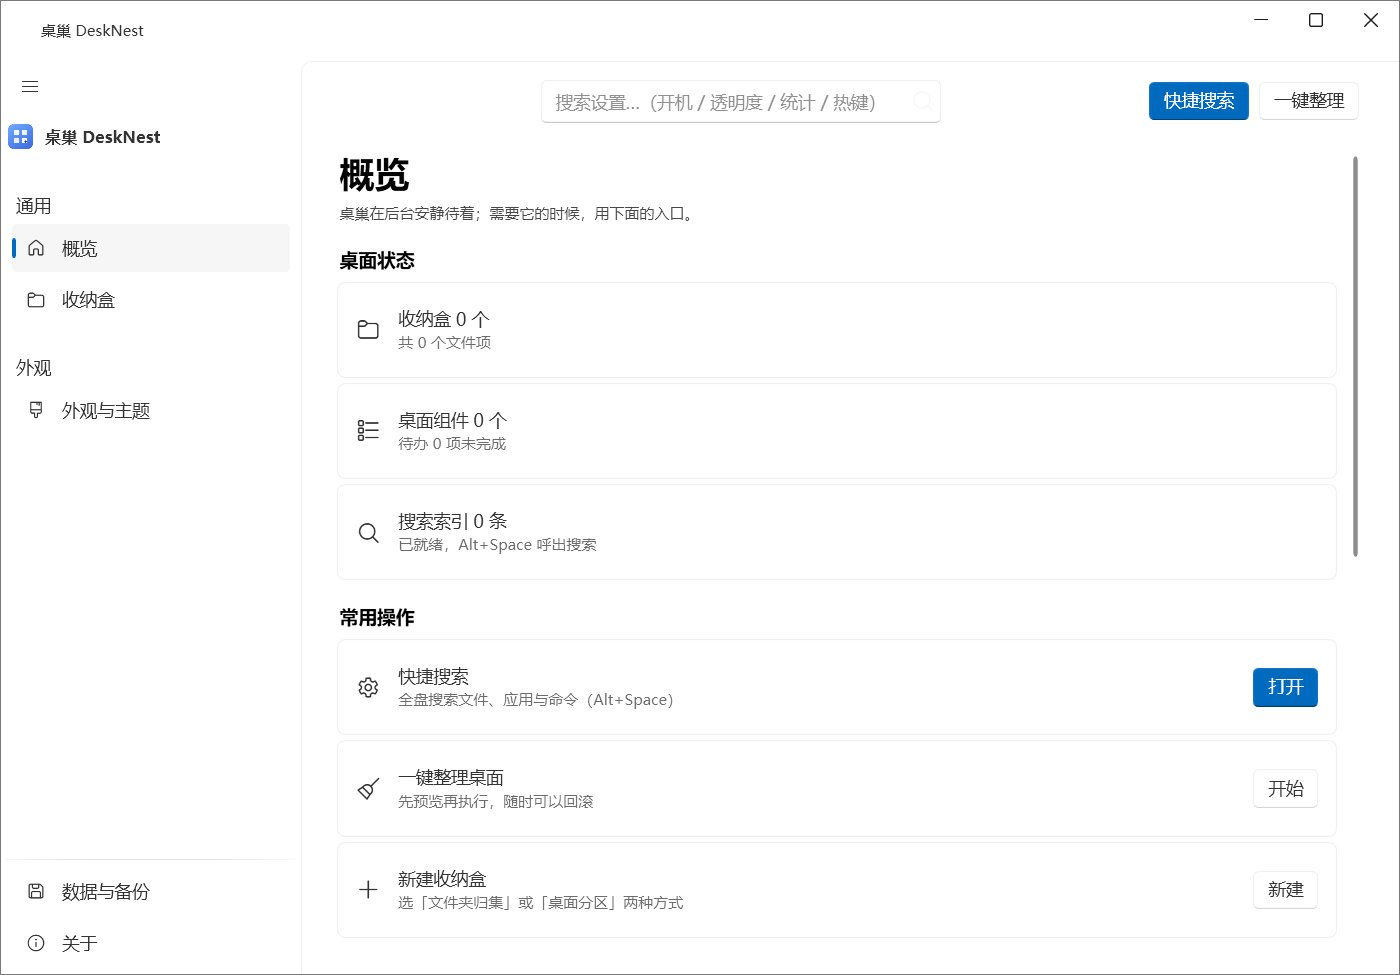
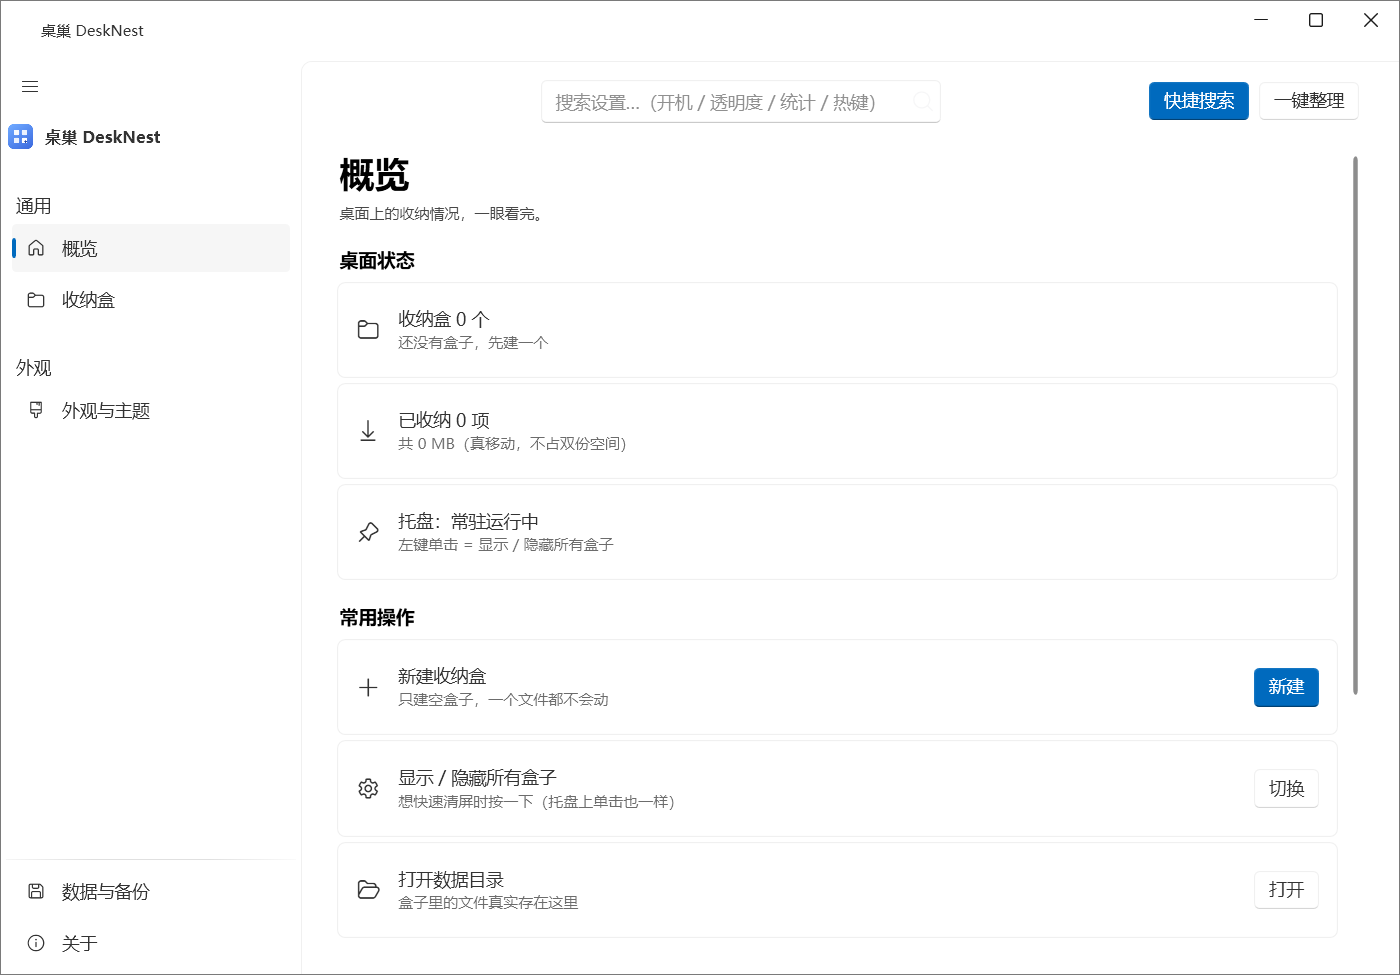
feat(v2.0/T6): 概览页重写——去掉桌面组件/搜索索引/一键整理等死入口，改成盒子数、已收纳项、托盘状态 + 三个真实操作

diff --git a/src/DeskNest.App/Pages/PagesCore.cs b/src/DeskNest.App/Pages/PagesCore.cs
@@ -15,53 +15,29 @@ public static class OverviewPage
     {
         var col = UiKit.Col();
         var boxes = AppServices.Repo.Boxes();
-        var widgets = AppServices.Repo.Widgets();
-        var todos = AppServices.Repo.Todos();
+        var items = AppServices.Repo.AllItems();
+        var totalMb = items.Sum(i => i.SizeBytes) / 1048576.0;
 
-        col.Children.Add(UiKit.PageHeader("概览", "桌巢在后台安静待着；需要它的时候，用下面的入口。"));
+        col.Children.Add(UiKit.PageHeader("概览", "桌面上的收纳情况，一眼看完。"));
 
         col.Children.Add(UiKit.Section("桌面状态",
-            UiKit.Row("🗂", $"收纳盒 {boxes.Count} 个", $"共 {AppServices.Repo.AllItems().Count} 个文件项", null,
+            UiKit.Row("🗂", $"收纳盒 {boxes.Count} 个", boxes.Count == 0 ? "还没有盒子，先建一个" : "点击进入「收纳盒」", null,
                 () => host.NavigateTo("boxes")),
-            UiKit.Row("🧩", $"桌面组件 {widgets.Count} 个", $"待办 {todos.Count(t => !t.IsDone)} 项未完成", null,
-                () => host.NavigateTo("widgets")),
-            UiKit.Row("🔍", $"搜索索引 {AppServices.Search.IndexedCount:N0} 条",
-                AppServices.Search.IsIndexing ? "正在后台建立索引…（可以正常使用）" : "已就绪，Alt+Space 呼出搜索", null,
-                () => (Application.Current as App)?.ShowSearch())));
+            UiKit.Row("📦", $"已收纳 {items.Count} 项", $"共 {totalMb:0.#} MB（真移动，不占双份空间）", null,
+                () => OpenDataRoot()),
+            UiKit.Row("📌", "托盘：常驻运行中", "左键单击 = 显示 / 隐藏所有盒子", null)));
 
         col.Children.Add(UiKit.Section("常用操作",
-            UiKit.ActionRow("⚡", "快捷搜索", "全盘搜索文件、应用与命令（Alt+Space）", "打开", () => (Application.Current as App)?.ShowSearch(), true),
-            UiKit.ActionRow("🧹", "一键整理桌面", "先预览再执行，随时可以回滚", "开始", () => host.OpenOrganizeWizard()),
-            UiKit.ActionRow("🆕", "新建收纳盒", "选「文件夹归集」或「桌面分区」两种方式", "新建", () => host.NavigateTo("boxes"))));
+            UiKit.ActionRow("🆕", "新建收纳盒", "只建空盒子，一个文件都不会动", "新建", () => host.NavigateTo("boxes"), true),
+            UiKit.ActionRow("👀", "显示 / 隐藏所有盒子", "想快速清屏时按一下（托盘上单击也一样）", "切换", () => Commands.ToggleLayerRequested?.Invoke()),
+            UiKit.ActionRow("📂", "打开数据目录", "盒子里的文件真实存在这里", "打开", () => OpenDataRoot())));
 
-        var runs = AppServices.Repo.Runs(5);
-        var rows = new List<UIElement>();
-        if (runs.Count == 0)
-        {
-            rows.Add(UiKit.Row("🕘", "还没有整理记录", "第一次整理后这里会出现可回滚的历史", null));
-        }
-        else
-        {
-            foreach (var run in runs)
-            {
-                var captured = run;
-                var subtitle = $"{captured.StartedAt.LocalDateTime:MM-dd HH:mm} · {captured.MovedCount} 项" +
-                               (captured.Undone ? " · 已回滚" : "");
-                UIElement? control = captured.Undone || captured.MovedCount == 0
-                    ? null
-                    : UiKit.Btn("回滚", () =>
-                    {
-                        var (restored, failed) = AppServices.Organizer.Undo(captured);
-                        Ui.Notifications.Toast($"已回滚：还原 {restored} 项，失败 {failed} 项");
-                        host.RefreshCurrent();
-                    });
-                rows.Add(UiKit.Row("🕘", captured.Trigger == "auto" ? "自动整理" : "手动整理", subtitle, control));
-            }
-        }
-        col.Children.Add(UiKit.Section("最近整理（可回滚）", rows.ToArray()));
+        if (boxes.Count == 0)
+            col.Children.Add(UiKit.Banner(BannerKind.Info,
+                "桌面上的文件还没地方放？先建一个盒子，再把文件拖进去 —— 文件会真的移进盒子，桌面立刻干净。",
+                "第一次使用"));
 
-        col.Children.Add(UiKit.Section("熟悉一下",
-            // 可展开行：开关 + 折叠箭头（像 DeskBox 的「开机自动启动 → 静默启动」）
+        col.Children.Add(UiKit.Section("开机与启动",
             UiKit.ExpanderRow("🚀", "开机自动启动", "登录 Windows 后在后台启动",
                 UiKit.Toggle(AppServices.Settings.Get("app.autoStart", false), v =>
                 {
@@ -69,26 +45,24 @@ public static class OverviewPage
                     Native.Win32.AutoStart.SetEnabled(v);
                 }),
                 UiKit.ToggleRow("🌙", "静默启动", "启动时不弹主窗口，只留托盘图标",
-                    AppServices.Settings.Get("app.silentStart", false), v => AppServices.Settings.Set("app.silentStart", v)),
-                UiKit.ToggleRow("🔔", "双击桌面空白处切换桌面图标", "和 ZenDesktop 那种效果一致，可随时关掉",
-                    AppServices.Settings.Get("desktop.doubleClick", true), v => AppServices.Settings.Set("desktop.doubleClick", v))),
-            UiKit.ToggleRow("🖥", "隐藏桌面图标", "图标与桌面盒可以共存：先隐藏图标，只留分类盒",
-                AppServices.Settings.Get("desktop.iconsHidden", false), v =>
-                {
-                    AppServices.Settings.Set("desktop.iconsHidden", v);
-                    Native.Win32.DesktopIcons.SetVisible(!v);
-                }),
-            // 说明条：DeskBox 里也有一条几乎一样的（"为什么快捷键有时没有反应?"）
-            UiKit.Row("⌨", "快捷键", "Alt+Space 呼出搜索，Alt+` 显示/隐藏桌面层", null)));
-
-        col.Children.Add(UiKit.Banner(BannerKind.Info,
-            "如果快捷键有时没反应：当前窗口是以管理员身份运行的（例如任务管理器），Windows 会暂时屏蔽全局热键给它的输入。这是系统限制，不是桌巢的问题。",
-            "为什么快捷键有时没有反应？"));
+                    AppServices.Settings.Get("app.silentStart", false), v => AppServices.Settings.Set("app.silentStart", v)))));
 
         col.Children.Add(UiKit.Banner(BannerKind.Warning,
-            "收纳盒的存储目录默认在 C 盘（" + AppPaths.DefaultManagedRoot + "）。把文件收进盒子里只是「换了位置」，不会释放 C 盘空间；想省 C 盘空间，请在「收纳盒」页把存储位置改到其他盘。",
+            "收纳盒的存储目录默认在 C 盘（" + AppPaths.DefaultManagedRoot + "）。把文件收进盒子里只是「换了位置」，不会释放 C 盘空间。",
             "关于收纳与磁盘空间"));
+
         return col;
+    }
+
+    /// <summary>打开数据目录（收纳盒里文件真实存放的地方）。</summary>
+    private static void OpenDataRoot()
+    {
+        try
+        {
+            System.IO.Directory.CreateDirectory(AppPaths.DataRoot);
+            System.Diagnostics.Process.Start("explorer.exe", AppPaths.DataRoot);
+        }
+        catch (Exception ex) { Ui.Notifications.Toast("打不开数据目录：" + ex.Message); }
     }
 }
 
